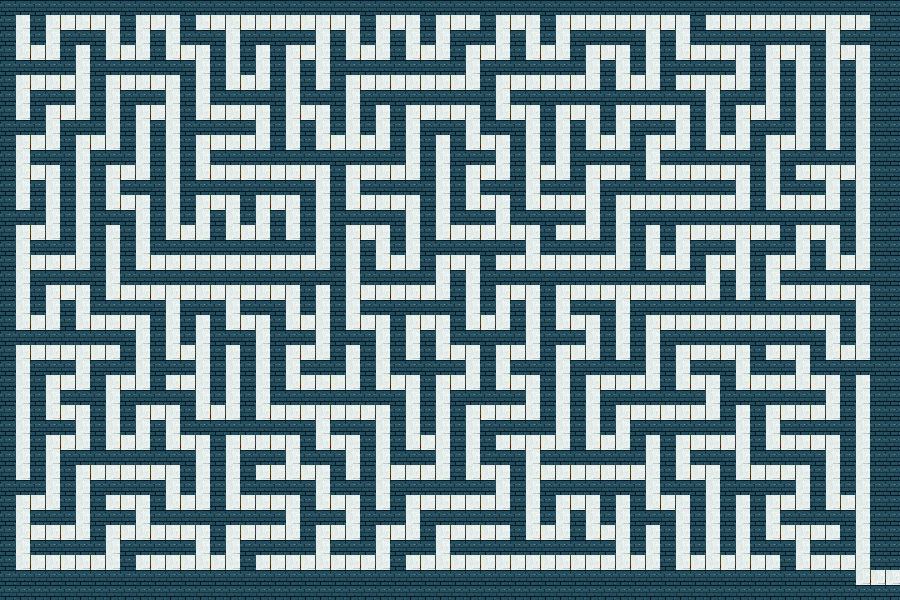
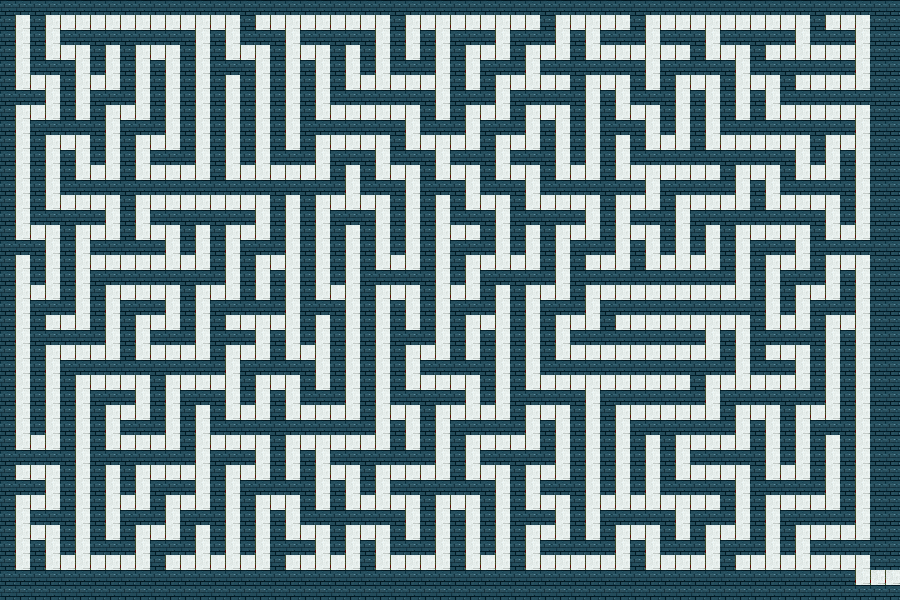
move the player

diff --git a/maze_vs.py b/maze_vs.py
@@ -1,6 +1,3 @@
-'''랜덤한 맵을 만드는 것까지 가능한 코드지만 해당 알고리즘을 아직 이해 못함
-작동은 아주 잘됨
-그 외에 창 크기를 보기 편하게 조금 조절한 것 말고는 기존 코드랑 똑같음'''
 import pygame
 import random as rd
 import time as t
@@ -10,187 +7,177 @@ import numpy as np
 pygame으로 만든 창은 좌표가 왼쪽 위에서부터 시작함 (0, 0)
 오른쪽과 아래쪽으로 갈수록 x, y 좌표가 각각 증가함
 '''
+
+# 사용자 정의 예외 클래스
+class OutsideBoundaryError(Exception):
+    """외벽에서 이동하려고 할 경우 발생하는 사용자 정의 예외"""
+    def __init__(self, message):
+        super().__init__(message)
+
+
 class Tile:
-    coords = [(x*15, y*15) for y in range(0, 40) for x in range(0, 60)]    # coordinates(좌표) 의 약자
-    #각 타일을 위치시킬 좌표. 게임 화면이 미로로 꽉 차도록 (0, 0) (왼쪽 위부터 시작하고, 현재 플레이어, 타일 등 모든 이미지의 크기는
-    #15 * 15 크기로 해놨기 때문에 이웃한 좌표간에 x, y 각각 15씩 차이가 남
-    #원래 타일번호는 왼쪽 위부터 1에서 시작하도록 하려고 했는데, 생각해보니 리스트 요소들이 가지는 인덱스를 타일번호로써 대체해도 되겠다 싶어서 타일번호는 0부터 시작하는 개념으로 바꿈
-    #따라서 coords에 위치한 좌표들의 인덱스가 바로 해당 좌표의 타일번호임
+    coords = [(x*15, y*15) for y in range(0, 40) for x in range(0, 60)]
     mapsize = len(coords)
-    left_vertical_edge_num    = [i for i in range(0, 2400, 60)]     #왼쪽 모서리 타일번호, Left 키를 눌렀을 때, 플레이어의 unique_num이 여기 속한다면 이동하지 않음
-    right_vertical_edge_num  = [i for i in range(0, 60)]            #오른쪽 모서리 타일번호  Right 키
-    up_horizon_edge_num     = [i for i in range(59, 2400, 60)]    #위쪽 모서리 타일번호    Up 키
-    down_horizon_edge_num = [i for i in range(2399, 2400)]        #아래쪽 모서리 타일번호    Down 키
-#왼쪽 세로축 모서리 0, 60, 120, 180, 240.....2279, 2339
-#위쪽 가로축 모서리 0, 1, 2, 3....58, 59
-#오른쪽 세로축 모서리 58, 118, 178, 238....2338, 2398
-#아래쪽 가로축 모서리 2279, 2280, ..2341....2339
-    obj = []  #길과 벽이 구분없이 타일번호 순서대로 저장될 리스트 (object)
+    left_vertical_edge_num = [i for i in range(0, 2400, 60)]
+    right_vertical_edge_num = [i for i in range(59, 2400, 60)]
+    up_horizon_edge_num = [i for i in range(0, 60)]
+    down_horizon_edge_num = [i for i in range(2340, 2400)]
+    obj = []
+
     def __init__(self, tile_type):
-        self.tile_type = tile_type   #각 tile 객체들은 길인지 벽인지 인스턴스 속성으로 지니고 있음
+        self.tile_type = tile_type
 
-
-    @classmethod
-    def is_road(cls, tile_num):
-        return unique_num in cls.road    #특정 unique_num의 타일이 길이면 True, 벽이면 False
-
-#원래 계획한 미로 맵을 만드는 방식은 맵이 바뀔 때마다 미로 맵 정보가 바뀌고, 그에 따라 길, 벽 이미지들을 각 고유번호에 따른 좌표에 위치시키는 거였는데,
-#해당 방식으로 구현하니까 렉이 어마어마하게 걸려서
-#우선 세 개의 미로 맵 각각의 정보에 따라 맵을 만들기는 하되, 해당 이미지를 다시 다운받아서 각 맵들을 이미지로 저장하고, 맵이 바뀔 때마다 1000개가 넘는 이미지들을 매 번
-#배치하는게 아니라 맵의 이미지만 들고 오도록 만듬
     @staticmethod
     def generate_maze(width, height):
-        '''이 함수가 GPT한테 물어봐서 만든 랜덤 미로 맵 만드는 알고리즘인데, 활용하면 아주 좋지 아직 이해를 못해서 난감
-        랜덤한 미로를 만드는 함수라고만 생각하고 넘어가도 됨
-        return 값은 0과 1로 이루어진 리스트'''
-        # 미로를 벽(0)로 초기화
         maze = np.zeros((height, width), dtype=int)
-        # 시작 지점 (무조건 홀수로 설정)
         start_x, start_y = 1, 1
-        maze[start_y][start_x] = 1  # 시작점을 길(1)로 설정
-        # 스택을 이용한 DFS 구현
+        maze[start_y][start_x] = 1
         stack = [(start_x, start_y)]
-        directions = [(-2, 0), (2, 0), (0, -2), (0, 2)]  # 상, 하, 좌, 우로 2칸씩 이동
+        directions = [(-2, 0), (2, 0), (0, -2), (0, 2)]
+
         while stack:
             current_x, current_y = stack[-1]
-            rd.shuffle(directions)  # 랜덤하게 방향 선택
+            rd.shuffle(directions)
             for dx, dy in directions:
                 nx, ny = current_x + dx, current_y + dy
                 if 0 <= nx < width - 1 and 0 <= ny < height - 1 and maze[ny][nx] == 0:
-                    # 중간 벽 제거
                     maze[current_y + dy // 2][current_x + dx // 2] = 1
-                    # 다음 칸을 길로 설정
                     maze[ny][nx] = 1
                     stack.append((nx, ny))
                     break
             else:
-                # 더 이상 갈 곳이 없으면 스택에서 제거 (백트래킹)
                 stack.pop()
-        # 입구와 출구 설정
-        maze[1][0] = 0  # 왼쪽 위 입구
-        maze[height - 2][width - 2] = 1  # 오른쪽 아래 출구로 나갈 수 있는 길 추가
-        maze[height - 2][width - 1] = 1  # 오른쪽 아래 출구
-        maze[height - 2][width - 3] = 1  # 오른쪽 아래 출구로 나갈 수 있는 길 추가  (오른쪽 아래의 ㅡ자 모양 3개가 이 코드 세 줄로 만들어짐)
 
-        # 1차원 리스트로 변환
-        maze_flat = list(maze.flatten())
+        maze[1][0] = 0
+        maze[height - 2][width - 2] = 1
+        maze[height - 2][width - 1] = 1
+        maze[height - 2][width - 3] = 1
 
-        return maze_flat
-
-
+        return list(maze.flatten())
 
     @classmethod
-    def make_map_picture(cls, map_num, combined_surf):   #combined_surf는 길, 벽들을 배치시켜 만들 하나의 미로 맵 이미지,          map_num은 세 개의 맵 중에 어떤 맵으로 바뀔지 알려줌
-        now_map = cls.map_data[map_num]                     #Tile 클래스 속성인 맵 세개의 데이터 (0, 1)리스트에서 map_num(0, 1, 2의 값) 에 해당하는 맵 데이터를 now_map으로 저장
-        for i in range(cls.mapsize):                                   # mapsize 는 len(now_map) 과 값이 같음 즉,  i는 now_map의 인덱스를 의미  (i ~ 0, 2023)
-#한마디로 i 가     2400개의 0, 1이 들어있는 리스트의 인덱스이자, 각 tile들의 타일번호
-            if now_map[i] == 0:                      #now_map의 i번째 값이 0이면 벽 이미지와 객체를
+    def make_map_picture(cls, map_num, combined_surf):
+        now_map = cls.map_data[map_num]
+        for i in range(cls.mapsize):
+            if now_map[i] == 0:
                 image = wall_image
-                cls.obj.append( cls('wall') )
+                cls.obj.append(cls('wall'))
             else:
                 image = road_image
-                cls.obj.append( cls('road') )          #1이면 길 이미지와 객체를
+                cls.obj.append(cls('road'))
 
-            combined_surf.blit(image, cls.coords[i])             #
-        pygame.image.save(combined_surf, f'MAZE_MAP{map_num+1}.png') #이 스크립트 파일이 있는 위치에 MAZE_MAP 이라는 이미지를 다운로드 시키는데, 각 맵마다 1, 2, 3으로 구분이 되도록 MAZE_MAP 뒤에
-        #format으로 map_num + 1 을 해줌
-
-
-
+            combined_surf.blit(image, cls.coords[i])
+        pygame.image.save(combined_surf, f'MAZE_MAP{map_num + 1}.png')
 
 
 class Player:
-    def __init__(self, tile_num, player_image, screen):  #(순서대로 타일번호, 플레이어의 이미지, 전체 게임 화면(900px X 600px))
+    def __init__(self, tile_num, player_image, screen):
         self.tile_num = tile_num
-        Player.image = player_image                       #플레이어의 이미지를 Player 클래스 속성ㅇ에 추가
-        Player.show_player(tile_num, screen)         # 이 클래스의 맨 밑에 정의되있는 함수인데, 타일번호를 받아서 해당 타일로 플레이어를 이동시키는 함수임
+        self.image = player_image
+        self.screen = screen
+        self.show_player(tile_num)
 
-    def cal_next_tile_num(self, user_key):  #user_key는 유저가 누른 방향키의 종류(ex, up, down, left, right)
+    def cal_next_tile_num(self, user_key):
         if user_key == 'UP':
-            change = -60                       #맵이 60 * 40 크기일 때, 한 칸 위로 가면 숫자가 60 작아짐
-        elif user_key == 'DOWN':                    # down 이면 60이 커짐
+            change = -60
+        elif user_key == 'DOWN':
             change = 60
-        elif user_key == 'RIGHT':
-            change = 1                         #오른쪽으로 가면 1 커짐
         elif user_key == 'LEFT':
-            change = -1                        #왼쪽으로 가면 1 작아짐
-        next_tile_num = self.tile_num + change    #플레이어가 이동될 고유번호를    기존의 고유번호에 변화량을 더해줘서 계산
-        return next_tile_num
+            change = -1
+        elif user_key == 'RIGHT':
+            change = 1
+        else:
+            raise ValueError("잘못된 키 입력")
+        return self.tile_num + change
 
-    def get_now_tile_num(self):
-      return self.tile_num
+    def check_boundary(self, next_tile_num, user_key):
+        if user_key == 'UP' and self.tile_num in Tile.up_horizon_edge_num:
+            raise OutsideBoundaryError("위쪽 외벽에서 위로 이동할 수 없습니다.")
+        if user_key == 'DOWN' and self.tile_num in Tile.down_horizon_edge_num:
+            raise OutsideBoundaryError("아래쪽 외벽에서 아래로 이동할 수 없습니다.")
+        if user_key == 'LEFT' and self.tile_num in Tile.left_vertical_edge_num:
+            raise OutsideBoundaryError("왼쪽 외벽에서 왼쪽으로 이동할 수 없습니다.")
+        if user_key == 'RIGHT' and self.tile_num in Tile.right_vertical_edge_num:
+            raise OutsideBoundaryError("오른쪽 외벽에서 오른쪽으로 이동할 수 없습니다.")
 
-    @classmethod
-    def show_player(cls, tile_num, screen): #이동시킬 타일번호와, 전체 게임 화면을 받음
-        x, y = Tile.coords[ tile_num ]         #Tile클래스에 있는 좌표(x, y 의 튜플) 리스트 coords에서 이동시킬 타일번호의 좌표를 가져옴
-        screen.blit(cls.image, (x, y))      #screen.blit 은 screen이라는 화면에 원하는 이미지를, 원하는 좌표에 그리는 함수 즉, 여기선 플레이어 이미지를 좌표 (x, y) 에 그림
+    def move_player(self, user_key):
+        next_tile_num = self.cal_next_tile_num(user_key)
+        self.check_boundary(next_tile_num, user_key)
+        if Tile.obj[next_tile_num].tile_type == 'road':
+            self.tile_num = next_tile_num
+            self.show_player(self.tile_num)
+        else:
+            print("벽이 있어 이동할 수 없습니다.")
 
-#여기까지가 클래스&함수
+    def show_player(self, tile_num):
+        x, y = Tile.coords[tile_num]
+        self.screen.blit(self.image, (x, y))
 
 
-
-
-
+# Pygame 초기화
 pygame.init()
 
-wall_image   = pygame.image.load('stone_wall02.png')                  #미리 다운로드된 벽 이미지를 wall_image 에 저장
-wall_image   = pygame.transform.scale(wall_image, (15, 15))           # 그대로 불러오면 크기가 굉장히 크기 때문에 게임 화면에 적절하도록 크기를 15px * 15px로 줄여서 가져옴
-road_image   = pygame.image.load('01tizeta_floor_e.png')              #길 이미지 저장
-road_image   = pygame.transform.scale(road_image, (15, 15))           #크기 15px X 15px 로 수정
-player_image = pygame.image.load('Player.png')                        #플레이어 이미지 저장
-player_image = pygame.transform.scale(player_image, (15, 15))         #크기 15px X 15px 로 수정
+# 이미지 로드 및 크기 조정
+wall_image = pygame.image.load('stone_wall02.png')
+wall_image = pygame.transform.scale(wall_image, (15, 15))
+road_image = pygame.image.load('01tizeta_floor_e.png')
+road_image = pygame.transform.scale(road_image, (15, 15))
+player_image = pygame.image.load('Player.png')
+player_image = pygame.transform.scale(player_image, (15, 15))
 
-Tile.map_data = [Tile.generate_maze(60, 40) for _ in range(3)]       #Tile 클래스에 있는 generate_maze 함수로 랜덤한 미로 맵 0, 1 리스트를 3번 만들어서, [[맵 데이터], [맵 데이터], [맵 데이터]] 형태의
-#리스트를 map_data 라는 이름으로 Tile 클래스에 저장
+Tile.map_data = [Tile.generate_maze(60, 40) for _ in range(3)]
 for i in range(3):
-    combined_map = pygame.Surface((900, 600))                   #2400개의 타일들을 배치시켜서 하나의 미로 맵 이미지가 될 바탕(surface) 을 60 * 15px X 40 * 15px 의 크기로 만들어서 미로 맵과 크기가 같도록 설정
-    Tile.make_map_picture(i, combined_map)                        # 맵 데이터를 받아서 하나의 맵 이미지를 만들고 다운로드 하는 make_map_picture 함수를 실행
-
+    combined_map = pygame.Surface((900, 600))
+    Tile.make_map_picture(i, combined_map)
 
 maze_map1 = pygame.image.load('MAZE_MAP1.png')
-maze_map2 = pygame.image.load('MAZE_MAP2.png')              #바로 위에서 저장된 맵 이미지 세 개를 다운로드
+maze_map2 = pygame.image.load('MAZE_MAP2.png')
 maze_map3 = pygame.image.load('MAZE_MAP3.png')
 map_images = [maze_map1, maze_map2, maze_map3]
 
-screen = pygame.display.set_mode((900, 600))  # 전체 게임 화면 크기를 미로 전체에 맞게 설정
-pygame.display.set_caption("Maze_Game")      #게임 창 위에 나타날 제목 설정
+screen = pygame.display.set_mode((900, 600))
+pygame.display.set_caption("Maze_Game")
 
-pygame.time.set_timer(pygame.USEREVENT, 15000)  #15초마다   USEREVENT 라는 이벤트를 발생시킴 일정한 주기마다 맵을 바꾸기 위한 용도
-clock = pygame.time.Clock()              #원활한 프로그램 작동을 위해 (이거 없으면 맵 바뀔때나 창을 끌 때 랙이 많이 걸림)게임의 실행속도 (fps) 를 일정하게 제한하기 위한 용도
-screen.blit( map_images[0], (0, 0) ) #현재 USEREVENT가 15초마다 작동(pygame.time.set_timer(pygame.USEREVENT, 15000))가 실행되고 15초 이후) 하기 때문에 맨 처음에는 미로 맵이 띄워지지 않은 상태
-#따라서 게임이 시작하기 전 미리 0번째 맵을 업로드
-map_index = 1 #다음번에 1번맵을 띄우도록 +1
+pygame.time.set_timer(pygame.USEREVENT, 15000)
+clock = pygame.time.Clock()
+screen.blit(map_images[0], (0, 0))
+
+map_index = 1
 player = Player(61, player_image, screen)
+
 running = True
 
-#게임 루프 부분
+# 게임 루프
 while running:
-    for event in pygame.event.get():   #pygame 에 있는 모든 이벤트들(사용자 지정 이벤트까지)을 전부 들고 옴
-        if event.type == pygame.QUIT:   #게임 창을 alt f4 가 아닌 마우스로 끌 때 발생하는 이벤트이며 해당 이벤트 발생 시 running을 False로 설정해서 게임을 종료시킴
+    for event in pygame.event.get():
+        if event.type == pygame.QUIT:
             running = False
 
-        elif event.type == pygame.KEYDOWN:     #화살표 방향 키를 눌렀을 때 작동
+        elif event.type == pygame.KEYDOWN:
             if event.key == pygame.K_UP:
                 key = "UP"
-            elif event.key == pygame.K_DOWN:       #네 개의 방향키 중 어떤 방향키인지 key에 할당
+            elif event.key == pygame.K_DOWN:
                 key = "DOWN"
             elif event.key == pygame.K_LEFT:
                 key = "LEFT"
             elif event.key == pygame.K_RIGHT:
                 key = "RIGHT"
-            else : continue
-            next_unique_num = player.cal_next_unique_num(key)  #플레이어의 다음 unique_num을 계산하는 함수에 인식된 키를 넣어서 next_unique_num에 할당
+            else:
+                continue
 
+            try:
+                player.move_player(key)
+            except OutsideBoundaryError as e:
+                print(f"오류 발생: {e}")
 
-
-        if event.type == pygame.USEREVENT:  #15초가 지나서 USEREVENT 라는 event가 발생하면 해당 if문 작동
-            if map_index == len(map_images):          #맵이 3개(mpas의 인덱스가 최대 2)기 때문에, 다른 미로맵을 띄우기 전에, 만약 map_index가 2였다면(이전 맵이 2였다면), 0으로 초기화
+        if event.type == pygame.USEREVENT:
+            if map_index == len(map_images):
                 map_index = 0
-            screen.blit(map_images[map_index], (0, 0))  #다음 미로 맵 사진 업로드
-            map_index += 1    #다음번 실행때는 다음 맵이 업로드 되도록 +1
-            player.show_player(61, screen)
+            screen.blit(map_images[map_index], (0, 0))
+            map_index += 1
+            player.show_player(61)
 
     pygame.display.flip()
-    clock.tick(60)  #게임 실행속도 제한
+    clock.tick(60)
 
 pygame.quit()
